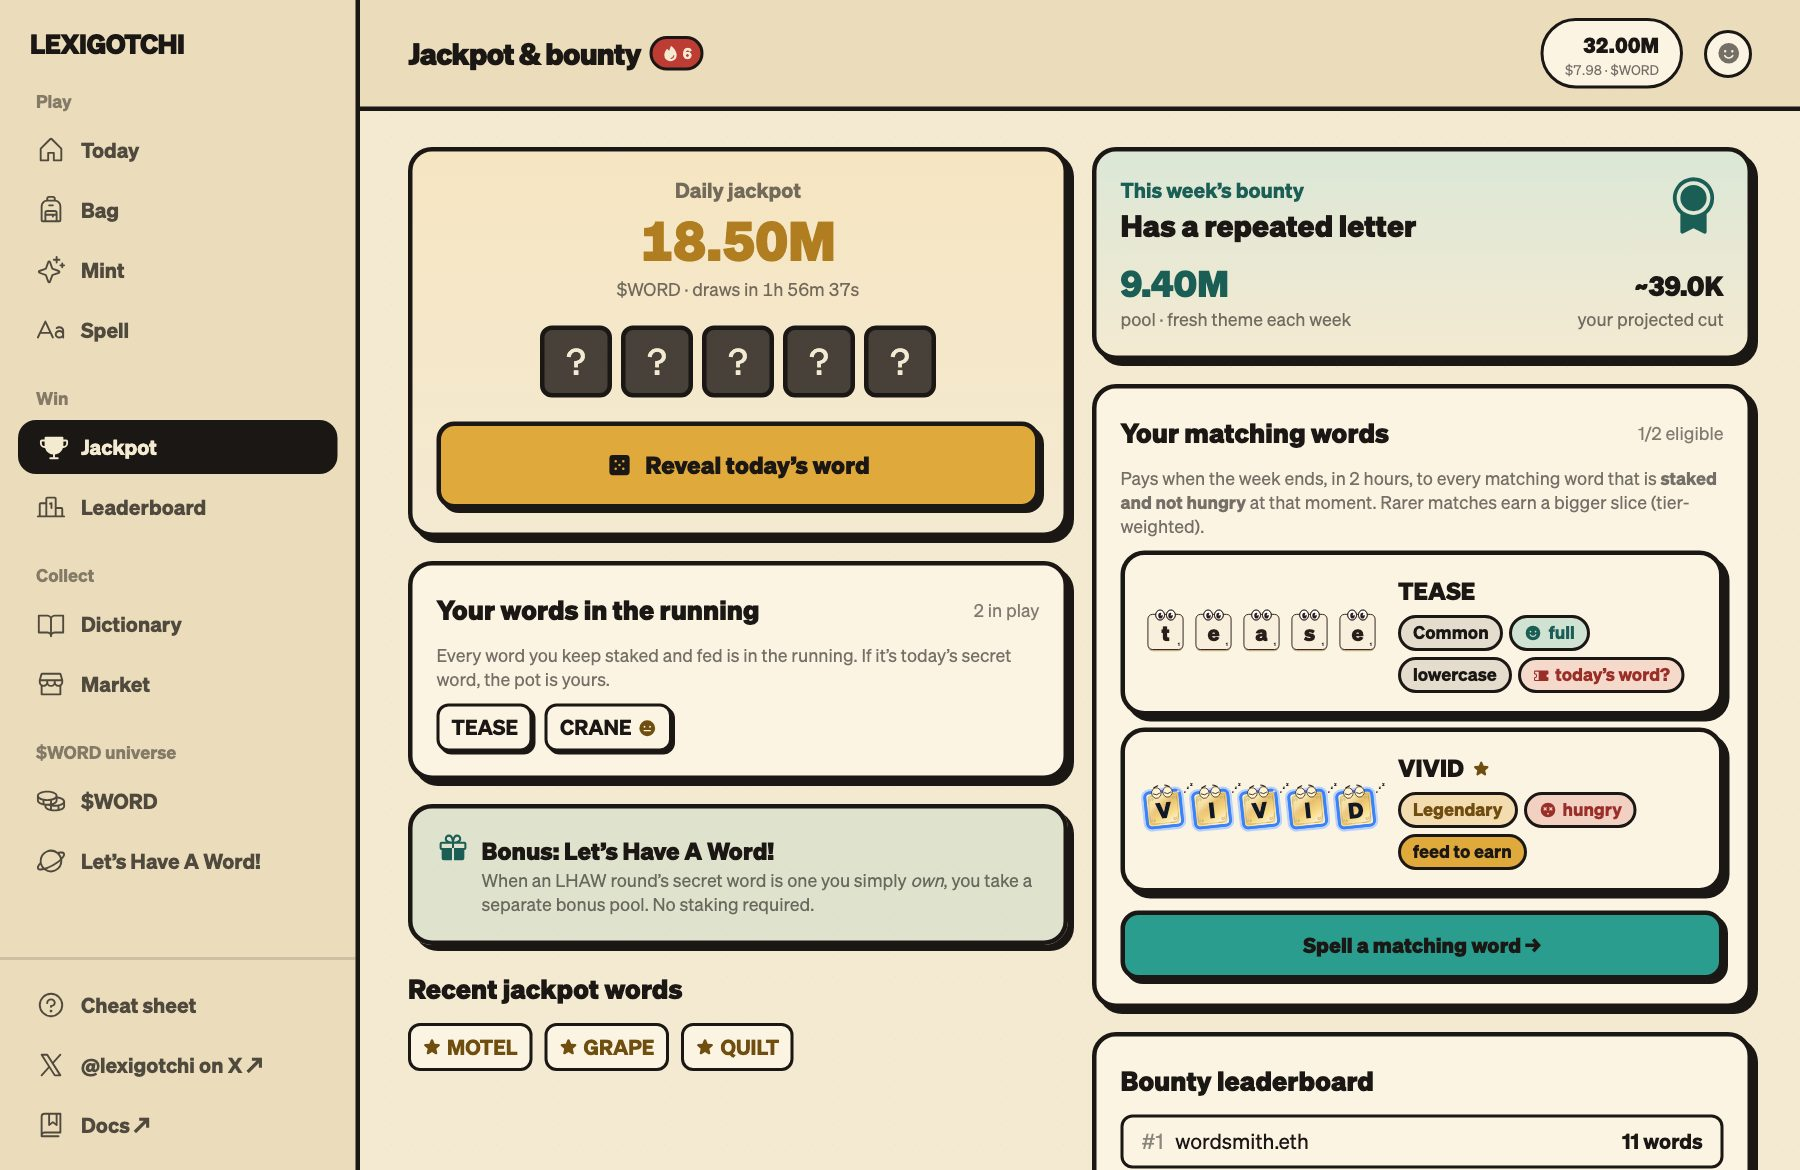
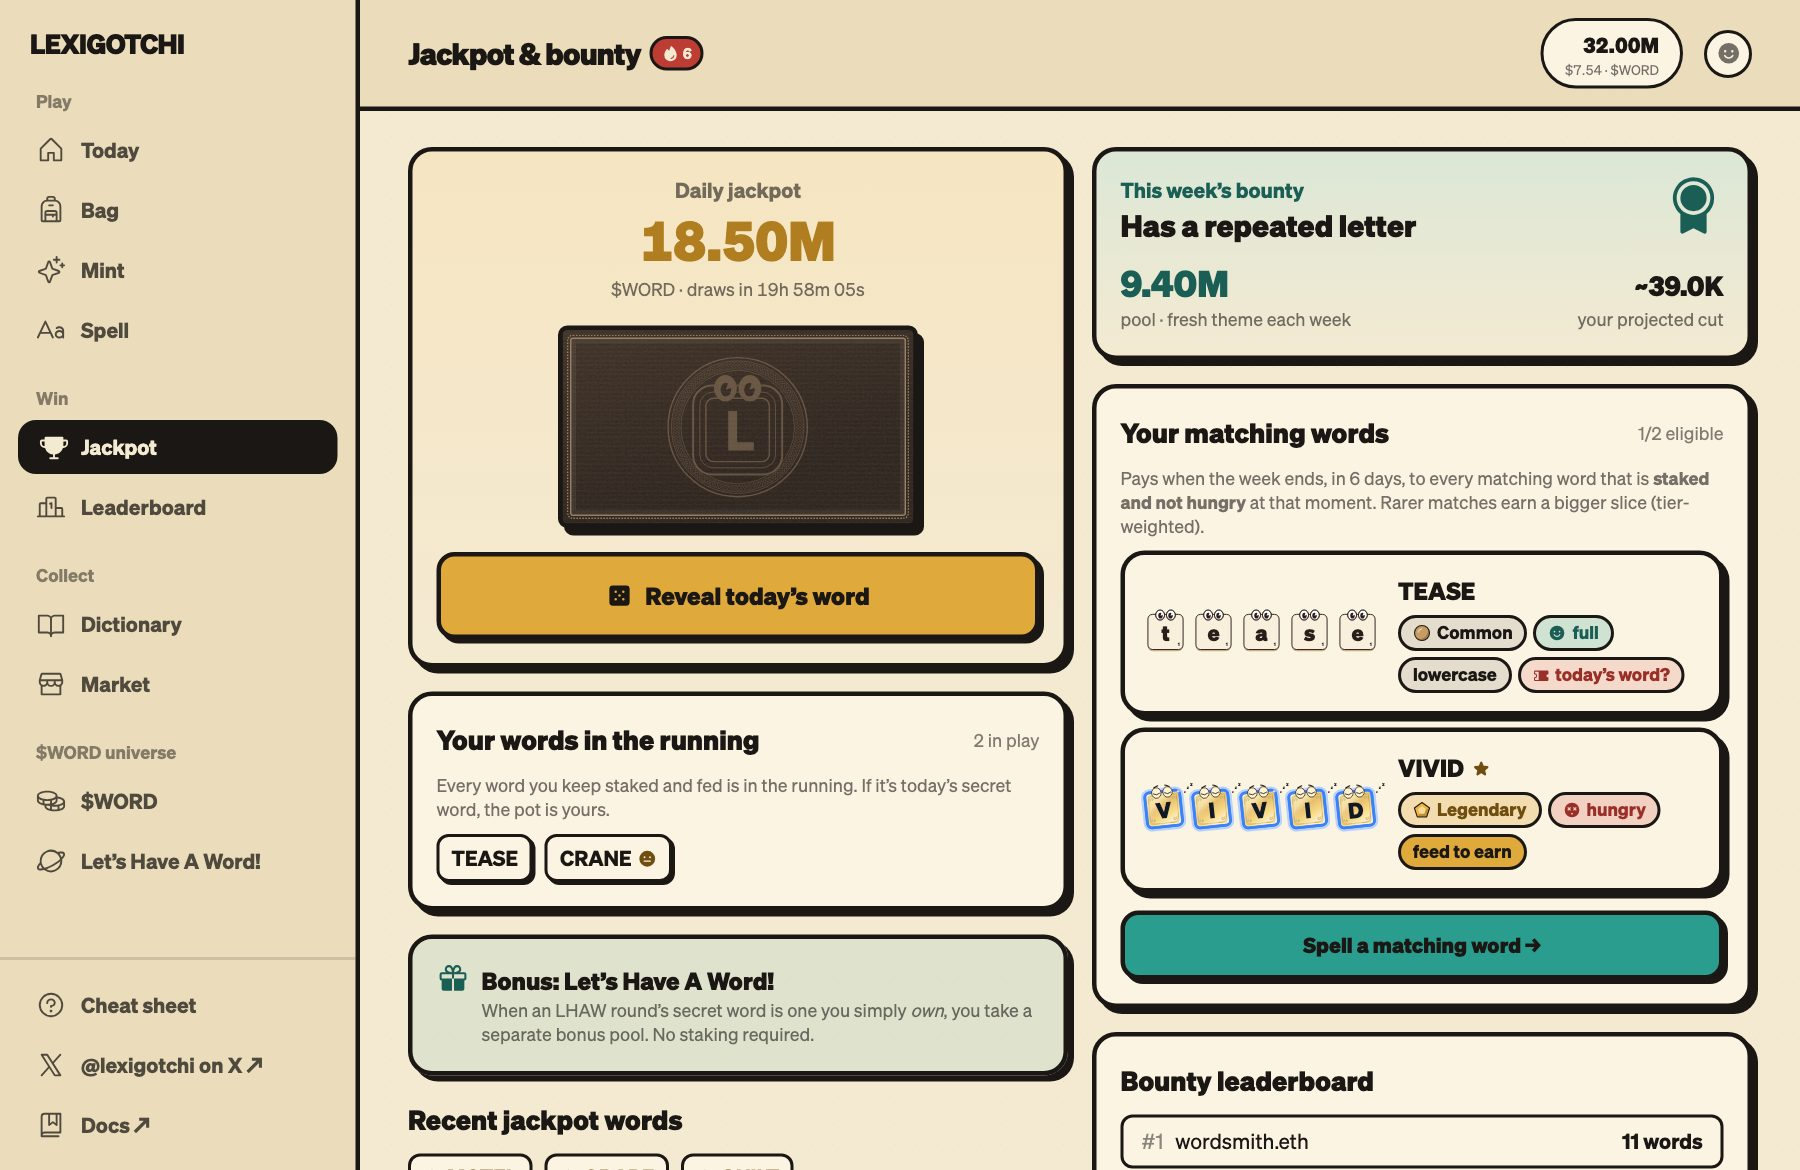
The jackpot's secret word is a card: face down, then face up (decisions.md #50, part 4)
The owner, on the review page "Four Bigger Pieces": "I like 4B - it
reinforces that a card has to be held, not individual letters".

Before the reveal the Jackpot page showed five dark tiles with a "?" on
each, and after it the word as loose letters. It now shows one card,
face down: a back's stock and frame with the game's seal, and no number,
facts, or letters. After the reveal the card is face up: the winner's
own card (their scene, cases, and gilding), or the word in the plain
scene.

The face-down card is given no word and no rarity, so it can show
neither. Its material is always Common's: a back in the word's own
material would tell the word's rarity before the reveal.

diff --git a/docs/decisions.md b/docs/decisions.md
@@ -2232,6 +2232,32 @@ setter. All small, riding existing suite patterns.
       - **Seen and not seen (part 3):** the whole shelf before and after at 1,280 px and 390 px;
         the joins enlarged at all six settings. `screen-market.jpg` in the player docs is taken
         again. Not seen: a real phone.
+    - **Part 4, the jackpot's secret word is a card** (4B; `cards/FaceDownCard.tsx`,
+      `screens/JackpotScreen.tsx`). It was five dark tiles with a "?" on each, and after the
+      reveal the word as loose letters. Now:
+      - **Before the reveal, one card, face down:** a back's stock and frame with the game's
+        seal in the middle, and no number, facts, or letters. 240 px wide at most.
+      - **After, the card face up.** A player who held the word, staked and fed, sees THEIR card:
+        their scene, their cases, their gilding, the letters cheering. Anyone else sees the word
+        in the plain scene, in lowercase, in its rarity's frame.
+      - **The face-down card is given no word and no rarity,** so it can show neither. Its
+        material is always the plain one (Common's). A back in the word's own material would
+        tell every player the word's rarity before the reveal. **Open for the owner:** Common's
+        material is the stand-in he saw on the review page; which plain material a face-down
+        card wears is his to decide.
+      - **No turn.** The face-up card arrives with the game's drop (it moves, it never changes
+        size). A real turn from back to front is its own piece of work: the back and the front
+        would be one card, and the front must not be in the page before the reveal.
+      - **Where it shows.** In the game onchain the page never reveals the word by itself, so
+        players see the face-down card all day. The reveal, the win, and the loss are the
+        practice game's.
+      - **The room it takes:** the jackpot's box is 347 px tall with the card, where it was about
+        260 px with the tiles. Beside the bounty from `lg` each column keeps its own height.
+      - **Seen and not seen (part 4):** the practice game at 390 px, 1,024 px, and 1,280 px in
+        Chromium and WebKit: face down, after a win (the first day's word is one the player
+        holds), and after a loss (the next day). No error, no sideways scrolling.
+        `screen-bounty.jpg` in the player docs is taken again. Not seen: a real phone; the page
+        onchain (it shows only the face-down state, the same component).
 
 51. **Reserved word sets: words held back at launch and released later, built in parts** (starl3xx,
     2026-11-26; he asked for this entry as #24, which the messaging guide already holds). In the

diff --git a/CLAUDE.md b/CLAUDE.md
@@ -746,6 +746,11 @@ for the mini app; sim/economy core is **zero-runtime-dependency TS** (runs via `
   (`useLetterSupply`, shared with the lookup sheet): a sold-out letter shows "Sold out" and the rest
   rise; "N left" shows only at a tenth of the chain's cap or less (`LOW_SHARE`). The docs' odds table
   (`docs-site/letters.mdx`) is pinned to the code by `tests/letter-odds.test.ts`.
+- **The jackpot's secret word is a card** (decisions.md #50, part 4; starl3xx: "a card has to be held, not
+  individual letters"): face down until it is revealed (`cards/FaceDownCard`: a back's stock and the seal;
+  it takes NO word and NO rarity, so nothing about the word can show, and its material is always
+  Common's), then face up (the winner's own card, or the word in the plain scene). Never show a word as
+  loose letters where a card would do. `tests/face-down-card.test.tsx` holds it.
 - **The Jackpot page carries the bounty** (starl3xx, 2026-11-25): one tab (the phone's "Win", the
   rail's "Jackpot"), the daily jackpot then the weekly bounty (`screens/BountySection.tsx`), side by
   side from `lg`. There is no `bounty` view. Today keeps both cards; its bounty card links with
